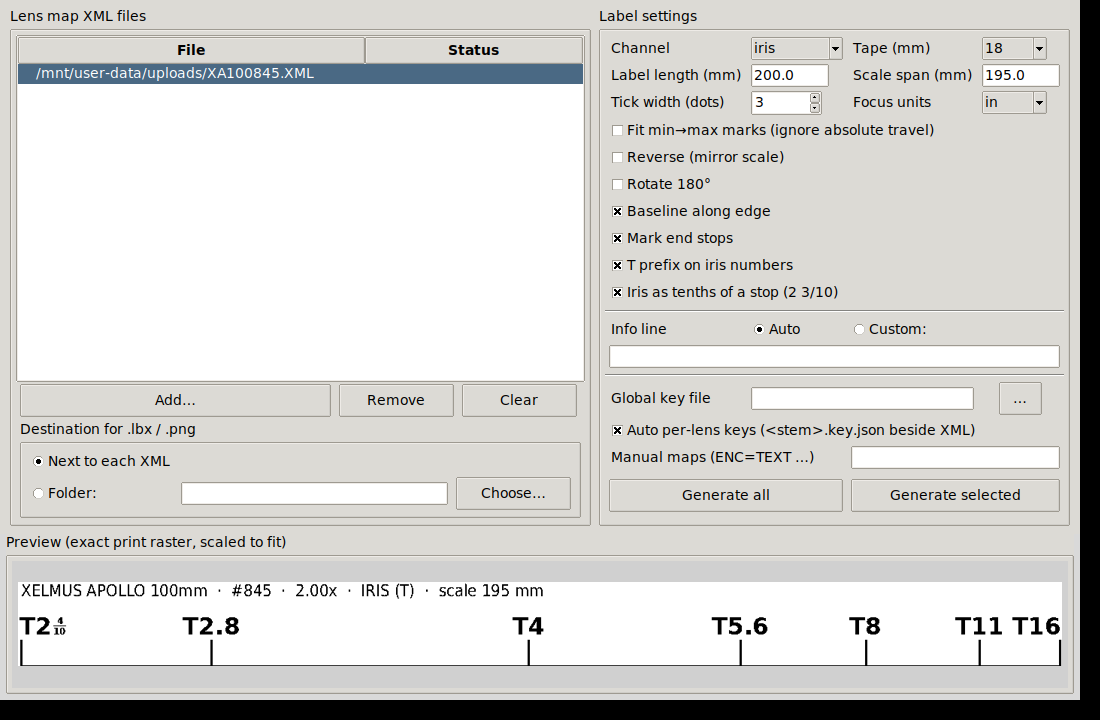
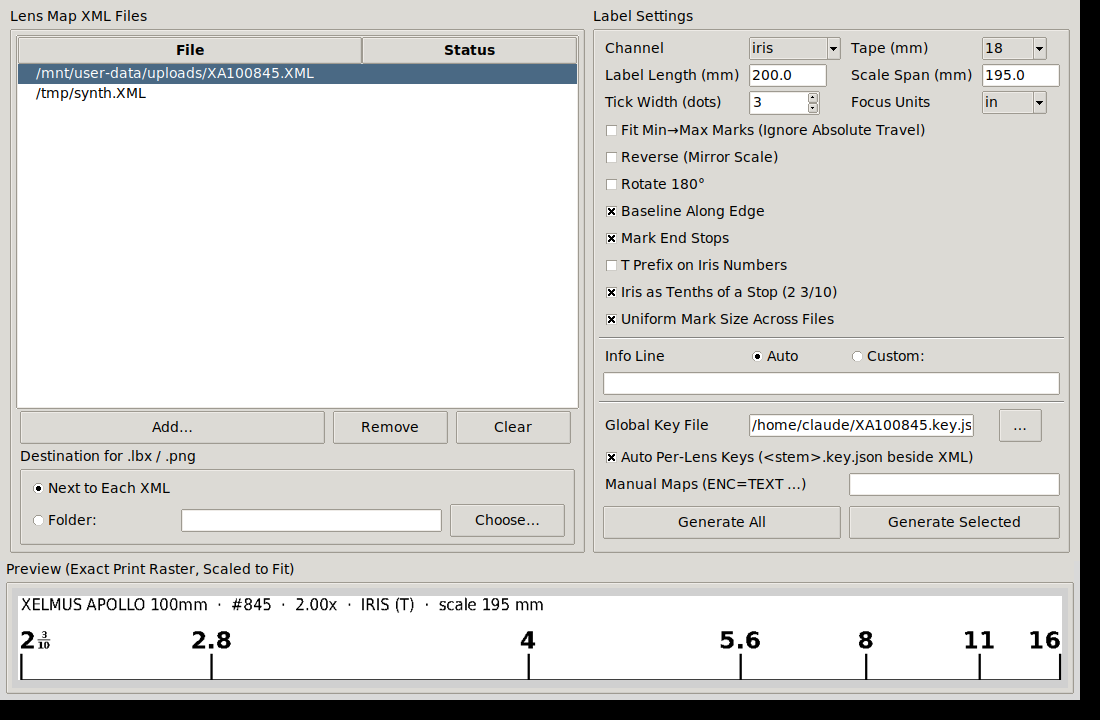
v1.1.0: uniform sizing, tenths default, Title Case UI

diff --git a/lensmap2lbx_gui.py b/lensmap2lbx_gui.py
@@ -41,9 +41,9 @@ except Exception:                                   # preview pane degrades grac
 SETTING_DEFAULTS = dict(
     channel="iris", tape=18, length=200.0, scale=195.0,
     fit=False, reverse=False, rotate180=False, baseline=True, endstops=True,
-    t_prefix=False, iris_tenths=False, tick_width=3, focus_units="in",
+    t_prefix=False, iris_tenths=True, tick_width=3, focus_units="in",
     info_mode="auto", info_text="",
-    global_key="", auto_keys=True, manual_maps="",
+    global_key="", auto_keys=True, manual_maps="", label_size=None,
 )
 
 
@@ -90,8 +90,9 @@ def build_label(xml_path, s, fonts):
         img, layout, _ = core.render(
             marks, info, s["tape"], s["length"], s["scale"],
             s["reverse"], s["rotate180"], s["fit"], s["baseline"],
-            fonts[0], fonts[1], tick_w=s["tick_width"], endstops=s["endstops"])
-        return details, img, marks
+            fonts[0], fonts[1], tick_w=s["tick_width"], endstops=s["endstops"],
+            num_h_override=s.get("label_size"))
+        return details, img, marks, layout
     except SystemExit as e:                          # core uses sys.exit(msg)
         raise ValueError(str(e.code)) from None
 
@@ -115,7 +116,7 @@ def write_outputs(xml_path, dest_dir, s, details, img):
 class App:
     def __init__(self, root):
         self.root = root
-        root.title(f"lensmap2lbx {core.__version__} — lens scale labels")
+        root.title(f"lensmap2lbx {core.__version__} — Lens Scale Labels")
         root.minsize(880, 560)
 
         fb, fr = core.find_font(core.FONT_BOLD), core.find_font(core.FONT_REG)
@@ -147,6 +148,8 @@ class App:
         self.global_key = tk.StringVar(value=v["global_key"])
         self.auto_keys = tk.BooleanVar(value=v["auto_keys"])
         self.manual_maps = tk.StringVar(value=v["manual_maps"])
+        self.uniform_size = tk.BooleanVar(value=True)
+        self._size_cache = {}                             # (path, settings) -> px
         self.dest_mode = tk.StringVar(value="beside")     # beside | folder
         self.dest_folder = tk.StringVar(value="")
 
@@ -156,7 +159,8 @@ class App:
                     self.reverse, self.rotate180, self.baseline, self.endstops,
                     self.t_prefix, self.iris_tenths, self.tick_width,
                     self.focus_units, self.info_mode, self.info_text,
-                    self.global_key, self.auto_keys, self.manual_maps):
+                    self.global_key, self.auto_keys, self.manual_maps,
+                    self.uniform_size):
             var.trace_add("write", lambda *_: self.schedule_preview())
         self._preview_job = None
 
@@ -171,7 +175,7 @@ class App:
         top.rowconfigure(0, weight=1)
 
         # -- left: file list --
-        left = ttk.LabelFrame(top, text="Lens map XML files", padding=4)
+        left = ttk.LabelFrame(top, text="Lens Map XML Files", padding=4)
         left.grid(row=0, column=0, sticky="nsew", **pad)
         left.rowconfigure(0, weight=1)
         left.columnconfigure(0, weight=1)
@@ -191,7 +195,7 @@ class App:
         dest = ttk.LabelFrame(left, text="Destination for .lbx / .png", padding=4)
         dest.grid(row=2, column=0, columnspan=4, sticky="ew", **pad)
         dest.columnconfigure(2, weight=1)
-        ttk.Radiobutton(dest, text="Next to each XML", value="beside",
+        ttk.Radiobutton(dest, text="Next to Each XML", value="beside",
                         variable=self.dest_mode).grid(row=0, column=0, sticky="w", **pad)
         ttk.Radiobutton(dest, text="Folder:", value="folder",
                         variable=self.dest_mode).grid(row=1, column=0, sticky="w", **pad)
@@ -199,7 +203,7 @@ class App:
         ttk.Button(dest, text="Choose…", command=self.pick_dest).grid(row=1, column=3, **pad)
 
         # -- right: settings --
-        s = ttk.LabelFrame(top, text="Label settings", padding=4)
+        s = ttk.LabelFrame(top, text="Label Settings", padding=4)
         s.grid(row=0, column=1, sticky="nsew", **pad)
         r = 0
         ttk.Label(s, text="Channel").grid(row=r, column=0, sticky="w", **pad)
@@ -208,30 +212,31 @@ class App:
         ttk.Label(s, text="Tape (mm)").grid(row=r, column=2, sticky="w", **pad)
         ttk.Combobox(s, textvariable=self.tape, values=sorted(core.TAPES),
                      state="readonly", width=5).grid(row=r, column=3, sticky="w", **pad); r += 1
-        ttk.Label(s, text="Label length (mm)").grid(row=r, column=0, sticky="w", **pad)
+        ttk.Label(s, text="Label Length (mm)").grid(row=r, column=0, sticky="w", **pad)
         ttk.Entry(s, textvariable=self.length, width=8).grid(row=r, column=1, sticky="w", **pad)
-        ttk.Label(s, text="Scale span (mm)").grid(row=r, column=2, sticky="w", **pad)
+        ttk.Label(s, text="Scale Span (mm)").grid(row=r, column=2, sticky="w", **pad)
         ttk.Entry(s, textvariable=self.scale, width=8).grid(row=r, column=3, sticky="w", **pad); r += 1
-        ttk.Label(s, text="Tick width (dots)").grid(row=r, column=0, sticky="w", **pad)
+        ttk.Label(s, text="Tick Width (dots)").grid(row=r, column=0, sticky="w", **pad)
         ttk.Spinbox(s, from_=1, to=6, textvariable=self.tick_width,
                     width=5, state="readonly").grid(row=r, column=1, sticky="w", **pad)
-        ttk.Label(s, text="Focus units").grid(row=r, column=2, sticky="w", **pad)
+        ttk.Label(s, text="Focus Units").grid(row=r, column=2, sticky="w", **pad)
         ttk.Combobox(s, textvariable=self.focus_units, values=("in", "cm"),
                      state="readonly", width=5).grid(row=r, column=3, sticky="w", **pad); r += 1
 
-        checks = [("Fit min→max marks (ignore absolute travel)", self.fit),
-                  ("Reverse (mirror scale)", self.reverse),
+        checks = [("Fit Min→Max Marks (Ignore Absolute Travel)", self.fit),
+                  ("Reverse (Mirror Scale)", self.reverse),
                   ("Rotate 180°", self.rotate180),
-                  ("Baseline along edge", self.baseline),
-                  ("Mark end stops", self.endstops),
-                  ("T prefix on iris numbers", self.t_prefix),
-                  ("Iris as tenths of a stop (2 3/10)", self.iris_tenths)]
+                  ("Baseline Along Edge", self.baseline),
+                  ("Mark End Stops", self.endstops),
+                  ("T Prefix on Iris Numbers", self.t_prefix),
+                  ("Iris as Tenths of a Stop (2 3/10)", self.iris_tenths),
+                  ("Uniform Mark Size Across Files", self.uniform_size)]
         for text, var in checks:
             ttk.Checkbutton(s, text=text, variable=var).grid(
                 row=r, column=0, columnspan=4, sticky="w", **pad); r += 1
 
         ttk.Separator(s).grid(row=r, column=0, columnspan=4, sticky="ew", pady=4); r += 1
-        ttk.Label(s, text="Info line").grid(row=r, column=0, sticky="w", **pad)
+        ttk.Label(s, text="Info Line").grid(row=r, column=0, sticky="w", **pad)
         ttk.Radiobutton(s, text="Auto", value="auto",
                         variable=self.info_mode).grid(row=r, column=1, sticky="w", **pad)
         ttk.Radiobutton(s, text="Custom:", value="custom",
@@ -240,25 +245,25 @@ class App:
             row=r, column=0, columnspan=4, sticky="ew", **pad); r += 1
 
         ttk.Separator(s).grid(row=r, column=0, columnspan=4, sticky="ew", pady=4); r += 1
-        ttk.Label(s, text="Global key file").grid(row=r, column=0, sticky="w", **pad)
+        ttk.Label(s, text="Global Key File").grid(row=r, column=0, sticky="w", **pad)
         ttk.Entry(s, textvariable=self.global_key).grid(
             row=r, column=1, columnspan=2, sticky="ew", **pad)
         ttk.Button(s, text="…", width=3, command=self.pick_key).grid(row=r, column=3, **pad); r += 1
-        ttk.Checkbutton(s, text="Auto per-lens keys (<stem>.key.json beside XML)",
+        ttk.Checkbutton(s, text="Auto Per-Lens Keys (<stem>.key.json beside XML)",
                         variable=self.auto_keys).grid(row=r, column=0, columnspan=4,
                                                       sticky="w", **pad); r += 1
-        ttk.Label(s, text="Manual maps (ENC=TEXT …)").grid(row=r, column=0,
+        ttk.Label(s, text="Manual Maps (ENC=TEXT …)").grid(row=r, column=0,
                                                            columnspan=2, sticky="w", **pad)
         ttk.Entry(s, textvariable=self.manual_maps).grid(
             row=r, column=2, columnspan=2, sticky="ew", **pad); r += 1
 
-        ttk.Button(s, text="Generate all", command=self.generate_all).grid(
+        ttk.Button(s, text="Generate All", command=self.generate_all).grid(
             row=r, column=0, columnspan=2, sticky="ew", padx=4, pady=8)
-        ttk.Button(s, text="Generate selected", command=self.generate_selected).grid(
+        ttk.Button(s, text="Generate Selected", command=self.generate_selected).grid(
             row=r, column=2, columnspan=2, sticky="ew", padx=4, pady=8)
 
         # -- bottom: preview + status --
-        bot = ttk.LabelFrame(self.root, text="Preview (exact print raster, scaled to fit)",
+        bot = ttk.LabelFrame(self.root, text="Preview (Exact Print Raster, Scaled to Fit)",
                              padding=4)
         bot.pack(fill="x", padx=6, pady=(0, 6))
         self.canvas = tk.Canvas(bot, height=150, background="#d0d0d0",
@@ -288,14 +293,14 @@ class App:
                     info_mode=self.info_mode.get(), info_text=self.info_text.get(),
                     global_key=self.global_key.get().strip(),
                     auto_keys=self.auto_keys.get(),
-                    manual_maps=self.manual_maps.get())
+                    manual_maps=self.manual_maps.get(), label_size=None)
 
     def files(self):
         return [self.tree.item(i, "text") for i in self.tree.get_children()]
 
     def add_files(self):
         for p in filedialog.askopenfilenames(
-                title="Add lens map XML files",
+                title="Add Lens Map XML Files",
                 filetypes=[("Lens map XML", "*.xml *.XML"), ("All files", "*")]):
             if p not in self.files():
                 self.tree.insert("", "end", text=p, values=("",))
@@ -314,16 +319,36 @@ class App:
         self.schedule_preview()
 
     def pick_dest(self):
-        d = filedialog.askdirectory(title="Destination folder")
+        d = filedialog.askdirectory(title="Destination Folder")
         if d:
             self.dest_folder.set(d)
             self.dest_mode.set("folder")
 
     def pick_key(self):
-        p = filedialog.askopenfilename(title="Global key JSON",
+        p = filedialog.askopenfilename(title="Global Key JSON",
                                        filetypes=[("JSON", "*.json"), ("All files", "*")])
         if p:
             self.global_key.set(p)
+
+    def apply_uniform(self, s):
+        """When Uniform Mark Size is on, pin label_size to the smallest size
+        the auto-fit would pick across all loaded files."""
+        if not self.uniform_size.get():
+            return s
+        probe = dict(s, label_size=None)
+        pkey = tuple(sorted((k, v) for k, v in probe.items()))
+        sizes = []
+        for p in self.files():
+            key = (p, pkey)
+            if key not in self._size_cache:
+                try:
+                    *_, layout = build_label(p, probe, self.fonts)
+                    self._size_cache[key] = layout["num_h"]
+                except Exception:
+                    self._size_cache[key] = None
+            if self._size_cache[key]:
+                sizes.append(self._size_cache[key])
+        return dict(s, label_size=min(sizes)) if sizes else s
 
     def selected_file(self):
         sel = self.tree.selection()
@@ -347,8 +372,8 @@ class App:
             self.status.config(text="Add lens map XML files to begin.")
             return
         try:
-            s = self.settings()
-            details, img, marks = build_label(path, s, self.fonts)
+            s = self.apply_uniform(self.settings())
+            details, img, marks, layout = build_label(path, s, self.fonts)
         except Exception as e:
             self.status.config(text=f"{Path(path).name}: {e}")
             return
@@ -356,7 +381,7 @@ class App:
         self.status.config(
             text=f"{Path(path).name} — {len(marks)} marks, {img.width}×{img.height}px "
                  f"({mm_w:.1f} × {img.height / core.DPMM:.1f} mm printable) "
-                 f"on {s['tape']} mm tape")
+                 f"on {s['tape']} mm tape, mark size {layout['num_h']} px")
         if not HAVE_IMAGETK:
             return
         cw = max(self.canvas.winfo_width(), 50)
@@ -378,6 +403,7 @@ class App:
         except ValueError as e:
             messagebox.showerror("lensmap2lbx", str(e))
             return
+        s = self.apply_uniform(s)
         if s["fit"] and s["endstops"]:
             pass                                    # core warns per-file if out of range
         if self.dest_mode.get() == "folder":
@@ -397,7 +423,7 @@ class App:
             if path not in paths:
                 continue
             try:
-                details, img, _ = build_label(path, s, self.fonts)
+                details, img, _, _ = build_label(path, s, self.fonts)
                 d = Path(path).parent if self.dest_mode.get() == "beside" \
                     else Path(self.dest_folder.get())
                 out = write_outputs(path, d, s, details, img)

diff --git a/lensmap2lbx.py b/lensmap2lbx.py
@@ -39,7 +39,9 @@ mark's printed text with --map ENC=TEXT (repeatable) or --key key.json
 Focus channel (--channel focus) decodes <encoded> as distance: 65535 = INF,
 otherwise inches (default) or cm (--focus-units cm).
 
---iris-tenths reformats iris values the way a light meter reads: tenths of
+Iris values print as tenths of a stop BY DEFAULT (--no-iris-tenths for
+plain f-numbers). --iris-tenths reformats iris values the way a light meter
+reads: tenths of
 a stop above the last nominal full stop (1, 1.4, 2, 2.8, 4, 5.6, 8, 11 ...).
 T2.2 -> '2 3/10', T2.4 -> '2 5/10'; full stops print plain. Nominal
 third-stop engravings (1.1 1.2 1.6 1.8 2.2 2.5 3.2 3.5 4.5 5 6.3 7.1 9 10
@@ -94,7 +96,7 @@ TAPES = {
     24: dict(width_pt=68.0, side_margin_pt=8.4, fmt="261", band_pt=51.2),
 }
 
-__version__ = "1.0.0"
+__version__ = "1.1.0"
 
 
 def app_dir():
@@ -294,7 +296,8 @@ def draw_label(draw, x_left, y_bot, met):
 
 
 def render(marks, info_text, tape_mm, label_mm, scale_mm, reverse, rotate180,
-           fit, baseline, font_bold, font_reg, tick_w=3, endstops=True):
+           fit, baseline, font_bold, font_reg, tick_w=3, endstops=True,
+           num_h_override=None):
     """Returns (PIL image, layout dict, list of placed-label x-extents in px)."""
     band_px = round(TAPES[tape_mm]["band_pt"] / PT_PER_PX)          # image height
     end_margin_mm = END_MARGIN_PT / MM_TO_PT                        # 1.976 mm
@@ -371,7 +374,9 @@ def render(marks, info_text, tape_mm, label_mm, scale_mm, reverse, rotate180,
     # labels: center on ticks, then resolve collisions by nudging apart;
     # shrink the font globally only if labels would drift too far from their ticks
     label_boxes = []
-    for trial_h in (num_h, round(num_h * 0.88), round(num_h * 0.78), round(num_h * 0.68)):
+    trials = ((num_h_override,) if num_h_override else
+              (num_h, round(num_h * 0.88), round(num_h * 0.78), round(num_h * 0.68)))
+    for trial_h in trials:
         MIN_GAP = max(4, round(trial_h * 0.22))                     # digit pairs need real air
         f_num = font_for_height(font_bold, max(9, trial_h))
         frac_h = round(max(9, trial_h) * 0.42)
@@ -380,7 +385,10 @@ def render(marks, info_text, tape_mm, label_mm, scale_mm, reverse, rotate180,
         for pos, enc, text in marks:
             met = label_metrics(draw, text, f_num, f_frac)
             items.append([x_f(pos), met["w"] / 2.0, met])
-        ideal = [it[0] for it in items]
+        # ideal = tick center clamped to the printable area: edge labels are
+        # expected to sit shifted inward, so boundary clamping is not drift —
+        # only collision-driven displacement should trigger a font shrink
+        ideal = [min(max(it[0], it[1] + 2), img_w - it[1] - 2) for it in items]
         order = sorted(range(len(items)), key=lambda i: items[i][0])
         for _ in range(200):
             moved = False
@@ -400,7 +408,7 @@ def render(marks, info_text, tape_mm, label_mm, scale_mm, reverse, rotate180,
             if not moved:
                 break
         max_drift = max(abs(it[0] - i0) for it, i0 in zip(items, ideal))
-        if max_drift <= max(6, trial_h * 0.7):
+        if num_h_override or max_drift <= max(6, trial_h * 0.7):
             break
     y_bot = band_px - (base_h + tick_h + gap)                       # label ink bottom
     for (c, hw, met), (_, enc, _) in zip(items, marks):
@@ -422,7 +430,7 @@ def render(marks, info_text, tape_mm, label_mm, scale_mm, reverse, rotate180,
         img = img.rotate(180)
     layout = dict(img_w=img_w, band_px=band_px, printable_mm=printable_mm,
                   end_margin_mm=end_margin_mm, scale_x0_mm=scale_x0_mm,
-                  endstops=drawn_stops)
+                  endstops=drawn_stops, num_h=max(9, trial_h))
     return img, layout, label_boxes
 
 
@@ -556,9 +564,14 @@ def main():
                     help="single override, e.g. --map 16=2.2 (repeatable)")
     ap.add_argument("--info", help="override the info line ('' to omit)")
     ap.add_argument("--t-prefix", action="store_true", help="prefix iris numbers with 'T'")
-    ap.add_argument("--iris-tenths", action="store_true",
+    ap.add_argument("--iris-tenths", action="store_true", default=True,
                     help="show iris values as tenths of a stop above the last full "
-                         "stop (2.2 -> '2 3/10'); applies to numeric --key/--map values too")
+                         "stop (2.2 -> '2 3/10'); ON by default")
+    ap.add_argument("--no-iris-tenths", dest="iris_tenths", action="store_false",
+                    help="print iris values as plain f-numbers (2.2, 3.2, 11)")
+    ap.add_argument("--label-size", type=int, default=None, metavar="PX",
+                    help="pin mark-number height in pixels instead of auto-fitting "
+                         "(use one value across a lens set for a uniform look)")
     ap.add_argument("--fit", action="store_true", help="map min..max marks to the scale instead of 0..65535")
     ap.add_argument("--reverse", action="store_true", help="mirror the scale left<->right")
     ap.add_argument("--rotate180", action="store_true", help="rotate the whole label 180\u00b0")
@@ -598,7 +611,7 @@ def main():
     img, layout, _ = render(marks, info, args.tape, args.length, args.scale,
                             args.reverse, args.rotate180, args.fit,
                             not args.no_baseline, fb, fr, tick_w=args.tick_width,
-                            endstops=args.endstops)
+                            endstops=args.endstops, num_h_override=args.label_size)
 
     stem = Path(args.lensfile).stem
     out = Path(args.out) if args.out else Path(f"{stem}_{args.channel}.lbx")
@@ -609,7 +622,8 @@ def main():
 
     lo, hi = (min(p for p, _, _ in marks), max(p for p, _, _ in marks)) if args.fit else (0, 65535)
     print(f"{args.channel} marks  (motor {lo}..{hi} -> {args.scale} mm, "
-          f"label {args.length} mm on {args.tape} mm tape, {img.width}x{img.height} px @180dpi)")
+          f"label {args.length} mm on {args.tape} mm tape, {img.width}x{img.height} "
+          f"px @180dpi, mark size {layout['num_h']} px)")
     print(f"{'pos':>7}  {'enc':>5}  {'text':>6}  {'mm':>9}")
     rows = [(p, str(e), t, "key" if str(e) in overrides else "formula") for p, e, t in marks]
     rows += [(p, "-", "STOP", "end stop") for p in layout["endstops"]]

diff --git a/README.md b/README.md
@@ -22,16 +22,19 @@ preview written next to each `.lbx` is the *identical* raster that prints.
   (`{"16": "2.2"}`) for rings whose engraving differs from the table.
 - **Focus decoding** — distance in inches (`65535` = ∞), printed as feet
   and inches or centimetres.
-- **Tenths-of-a-stop mode** — iris values as a light meter reads them:
-  `T2.2 → T2 ³⁄₁₀` with a stacked vertical fraction; nominal third-stop
-  engravings (2.2, 3.2, 9, 13 …) snap to 3/10 and 7/10.
+- **Tenths-of-a-stop mode** (default) — iris values as a light meter reads
+  them: `T2.2 → T2 ³⁄₁₀` with a stacked vertical fraction; nominal
+  third-stop engravings (2.2, 3.2, 9, 13 …) snap to 3/10 and 7/10.
+  `--no-iris-tenths` prints plain f-numbers.
 - **End stops** — when a barrel travels past its outermost mark, the motor
   travel limits (0 / 65535) print as unlabeled brackets.
 - Bottom-edge ticks reaching the last printable dot row, auto collision
   handling for crowded marks, scale mirroring and 180° rotation, tape
   widths 6 / 9 / 12 / 18 / 24 mm.
 - **GUI** with live preview and batch conversion of many XMLs to a chosen
-  destination; per-lens `*.key.json` files are picked up automatically.
+  destination; per-lens `*.key.json` files are picked up automatically, and
+  Uniform Mark Size renders a whole lens set at one matched text size
+  (`--label-size` pins it manually from the CLI).
 
 ## Download
 
@@ -56,8 +59,8 @@ CLI examples:
 # 18 mm tape, absolute 0–65535 travel on a 195 mm scale (defaults)
 python3 lensmap2lbx.py examples/XA100845.XML --key examples/XA100845.key.json
 
-# meter-style tenths with T prefix
-python3 lensmap2lbx.py examples/XA100845.XML --iris-tenths --t-prefix
+# plain f-numbers instead of the default tenths-of-a-stop style
+python3 lensmap2lbx.py examples/XA100845.XML --no-iris-tenths
 
 # focus scale in feet/inches on 12 mm tape
 python3 lensmap2lbx.py examples/XA100845.XML --channel focus --tape 12
